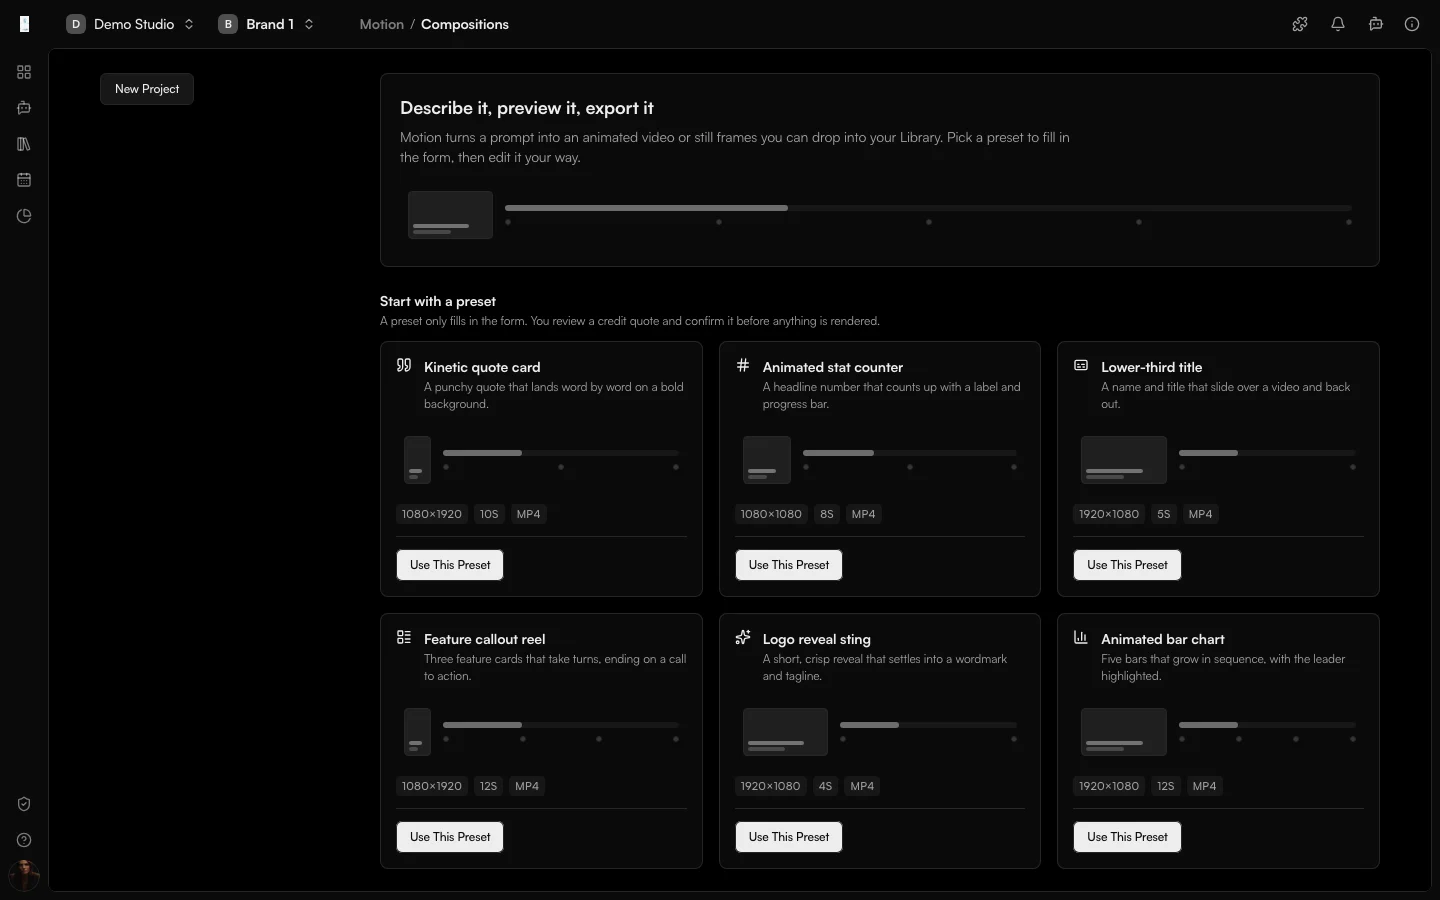
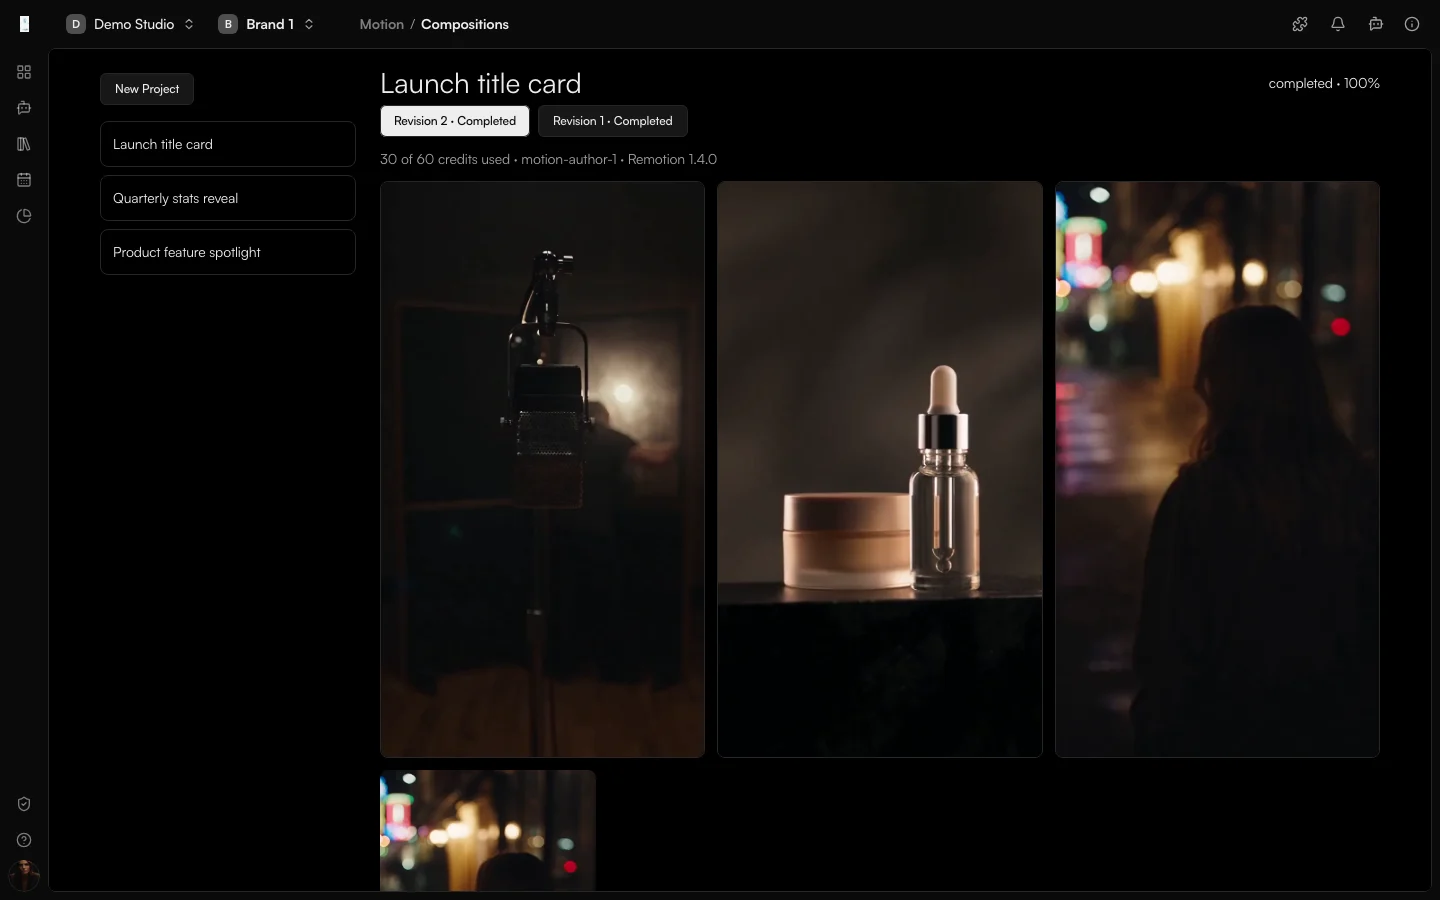
feat(website): populated Motion and Turbo product captures, refreshed Agent frame
Mock visual-projects, turbo-projects and single-ingredient routes in the website capture set so Motion shows a project with revisions and previews and Turbo shows a reviewing project with real CDN images. Agent frame re-captured with the two demo threads listed.

diff --git a/playwright/e2e/readme/capture-readme-assets.spec.ts b/playwright/e2e/readme/capture-readme-assets.spec.ts
@@ -182,6 +182,9 @@ const CAPTURE_TARGETS: CaptureTarget[] = [
   },
 ];
 
+const MOTION_PROJECT_ID = 'motion-project-1';
+const TURBO_PROJECT_ID = 'turbo-project-1';
+
 /**
  * One frame per app surface, named after its /products/<slug> page. The slugs
  * come from `apps/website/packages/data/app-products.data.ts`, so a surface
@@ -191,8 +194,14 @@ const WEBSITE_PRODUCT_TARGETS: CaptureTarget[] = [
   { fileName: 'playground.png', path: brandPath('/playground') },
   { fileName: 'storyboard.png', path: brandPath('/storyboard') },
   { fileName: 'clipper.png', path: brandPath('/clipper') },
-  { fileName: 'motion.png', path: brandPath('/motion') },
-  { fileName: 'turbo.png', path: brandPath('/turbo') },
+  {
+    fileName: 'motion.png',
+    path: `${brandPath('/motion')}?project=${MOTION_PROJECT_ID}`,
+  },
+  {
+    fileName: 'turbo.png',
+    path: `${brandPath('/turbo')}/${TURBO_PROJECT_ID}`,
+  },
   { fileName: 'editor.png', path: brandPath('/editor') },
   { fileName: 'publishing.png', path: brandPath('/publishing/overview') },
   {
@@ -1144,6 +1153,172 @@ const LIBRARY_GALLERY = Array.from({ length: 24 }, (_, index) => ({
   width: 1080,
 }));
 
+const MOTION_SETTINGS = {
+  durationFrames: 150,
+  fps: 30,
+  height: 1080,
+  width: 1080,
+};
+
+const MOTION_CATALOG = {
+  creditsPerSecond: 4,
+  defaultModelKey: 'motion-author-1',
+  defaultSettings: MOTION_SETTINGS,
+  isAvailable: true,
+  limits: {
+    allowedFps: [24, 30],
+    maxAssets: 8,
+    maxDurationFrames: 900,
+    maxDurationSeconds: 30,
+    maxHeight: 1920,
+    maxOutputs: 4,
+    maxPixels: 2073600,
+    maxPromptBytes: 8000,
+    maxPropsBytes: 20000,
+    maxRepairs: 2,
+    maxSourceBytes: 64000,
+    maxWidth: 1920,
+    renderDeadlineSeconds: 300,
+  },
+  models: [
+    {
+      inputCostPerMillion: 3,
+      inspectionCapability: 'declared',
+      isAvailable: true,
+      isByok: false,
+      isDefault: true,
+      key: 'motion-author-1',
+      label: 'Motion author',
+      outputCostPerMillion: 15,
+      provider: 'anthropic',
+      unavailableReason: null,
+    },
+  ],
+  outputFormats: ['mp4', 'png', 'jpeg'],
+  rendererVersion: '1.4.0',
+  unavailableReason: null,
+};
+
+const MOTION_PROJECT_LABELS = [
+  'Launch title card',
+  'Quarterly stats reveal',
+  'Product feature spotlight',
+];
+
+const MOTION_PROJECTS = MOTION_PROJECT_LABELS.map((label, index) => ({
+  brandId: 'brand-1',
+  createdAt: `2026-10-2${4 + index}T09:00:00.000Z`,
+  currentRevision: 2,
+  id: index === 0 ? MOTION_PROJECT_ID : `motion-project-${index + 1}`,
+  label,
+  nextRevisionCursor: null,
+  organizationId: 'org-1',
+  revisions: [2, 1].map((number) => ({
+    consumedCredits: 36 - (number - 1) * 6,
+    diagnostics: [],
+    hasSource: true,
+    id: `motion-revision-${index + 1}-${number}`,
+    maximumCredits: 60,
+    modelKey: 'motion-author-1',
+    number,
+    outputRequests: [{ format: 'png', frame: 60 }],
+    outputs: [
+      {
+        format: 'png',
+        height: 1080,
+        ingredientId: `capture-image-${index * 3 + number}`,
+        url: `${CAPTURE_CDN}/library-${index * 3 + number}.webp`,
+        width: 1080,
+      },
+    ],
+    previews: [0, 1, 2].map((frame) => ({
+      format: 'png',
+      frame: frame * 60,
+      height: 540,
+      url: `${CAPTURE_CDN}/library-${((index * 3 + number + frame + 3) % 24) + 1}.webp`,
+      width: 540,
+    })),
+    progress: 100,
+    projectId: index === 0 ? MOTION_PROJECT_ID : `motion-project-${index + 1}`,
+    prompt:
+      number === 1
+        ? `${label}: bold type over a soft gradient, 5 seconds.`
+        : `${label}: tighten the timing and add a subtle grain.`,
+    props: { accent: '#7c3aed', title: label },
+    receipts: [],
+    rendererVersion: '1.4.0',
+    requestId: `motion-request-${index + 1}-${number}`,
+    settings: MOTION_SETTINGS,
+    sourceAssetIds: [],
+    sourceHash: `hash-${index + 1}-${number}`,
+    status: 'completed',
+  })),
+  updatedAt: `2026-10-2${4 + index}T09:30:00.000Z`,
+  userId: 'user-1',
+}));
+
+const TURBO_IDEAS = [
+  ['Studio morning', 'Behind the scenes of a calm studio morning.'],
+  ['Three-second hook', 'The first frame decides everything.'],
+  ['Launch day', 'We shipped it. Here is what changed.'],
+  ['Before and after', 'Same brief, two very different cuts.'],
+  ['Quiet detail', 'The small thing nobody notices until it is gone.'],
+  ['Weekend drop', 'A limited run, out this Saturday.'],
+];
+
+const TURBO_ITEM_COUNTS = {
+  approved: 2,
+  failed: 0,
+  generating: 0,
+  pending: 0,
+  ready: 4,
+  rejected: 0,
+  scheduled: 0,
+  total: 6,
+};
+
+const TURBO_PROJECTS = [
+  ['Launch week ideas', 'REVIEWING'],
+  ['Weekend drop teasers', 'COMPLETED'],
+  ['Product tour cuts', 'SCHEDULED'],
+].map(([name, status], index) => ({
+  brandId: 'brand-1',
+  createdAt: `2026-10-2${3 + index}T08:00:00.000Z`,
+  id: index === 0 ? TURBO_PROJECT_ID : `turbo-project-${index + 1}`,
+  itemCounts: TURBO_ITEM_COUNTS,
+  items: TURBO_IDEAS.map(([hook, caption], position) => ({
+    caption,
+    createdAt: '2026-10-26T08:10:00.000Z',
+    id: `turbo-item-${index + 1}-${position + 1}`,
+    idea: {
+      caption,
+      format: 'image',
+      hook,
+      id: `turbo-idea-${position + 1}`,
+      platformHints: ['instagram', 'tiktok'],
+      visualPrompt: `${hook}, soft studio light, editorial framing.`,
+    },
+    outputCategory: 'IMAGE',
+    outputIngredientId: `capture-image-${position + 4}`,
+    position,
+    projectId: index === 0 ? TURBO_PROJECT_ID : `turbo-project-${index + 1}`,
+    retryCount: 0,
+    reviewItemId: `review-item-${position + 1}`,
+    scheduledTargets: [],
+    status: position < 2 ? 'APPROVED' : 'READY',
+  })),
+  kind: 'IDEAS',
+  name,
+  organizationId: 'org-1',
+  quote: null,
+  revision: 4,
+  settings: { ideas: { count: 6, formats: ['image'] } },
+  status,
+  step: 'review',
+  updatedAt: `2026-10-2${6 - index}T10:00:00.000Z`,
+  userId: 'user-1',
+}));
+
 async function fulfillSurfaceApi(route: Route, url: string): Promise<boolean> {
   if (CAPTURE_SET !== 'website') {
     return false;
@@ -1166,6 +1341,65 @@ async function fulfillSurfaceApi(route: Route, url: string): Promise<boolean> {
       }),
     );
     return true;
+  }
+  if (method === 'GET' && /\/visual-projects\/catalog$/.test(pathname)) {
+    await fulfillJson(route, {
+      data: {
+        attributes: MOTION_CATALOG,
+        id: 'catalog',
+        type: 'visual-catalog',
+      },
+    });
+    return true;
+  }
+  if (method === 'GET' && /\/visual-projects\/projects$/.test(pathname)) {
+    await fulfillJson(route, {
+      ...jsonApiCollection('visual-projects', MOTION_PROJECTS),
+      links: { cursor: { nextCursor: null } },
+    });
+    return true;
+  }
+  const motionProject = pathname.match(/\/visual-projects\/([^/]+)$/)?.[1];
+  if (method === 'GET' && motionProject) {
+    const project =
+      MOTION_PROJECTS.find((item) => item.id === motionProject) ??
+      MOTION_PROJECTS[0];
+    await fulfillJson(route, {
+      data: { attributes: project, id: project.id, type: 'visual-projects' },
+    });
+    return true;
+  }
+  if (method === 'GET' && /\/turbo-projects$/.test(pathname)) {
+    await fulfillJson(
+      route,
+      jsonApiCollection(
+        'turbo-projects',
+        TURBO_PROJECTS.map(({ items: _items, ...project }) => project),
+      ),
+    );
+    return true;
+  }
+  const turboProject = pathname.match(/\/turbo-projects\/([^/]+)$/)?.[1];
+  if (method === 'GET' && turboProject) {
+    const project =
+      TURBO_PROJECTS.find((item) => item.id === turboProject) ??
+      TURBO_PROJECTS[0];
+    await fulfillJson(route, {
+      data: { attributes: project, id: project.id, type: 'turbo-projects' },
+    });
+    return true;
+  }
+  const ingredientId = pathname.match(
+    /\/ingredients\/(capture-image-\d+)$/,
+  )?.[1];
+  if (method === 'GET' && ingredientId) {
+    const image = LIBRARY_GALLERY.find((item) => item.id === ingredientId);
+    if (image) {
+      await fulfillJson(route, {
+        data: { attributes: image, id: image.id, type: 'images' },
+      });
+      return true;
+    }
   }
   if (method === 'GET' && /\/corpus\/health$/.test(pathname)) {
     await fulfillJson(route, {
